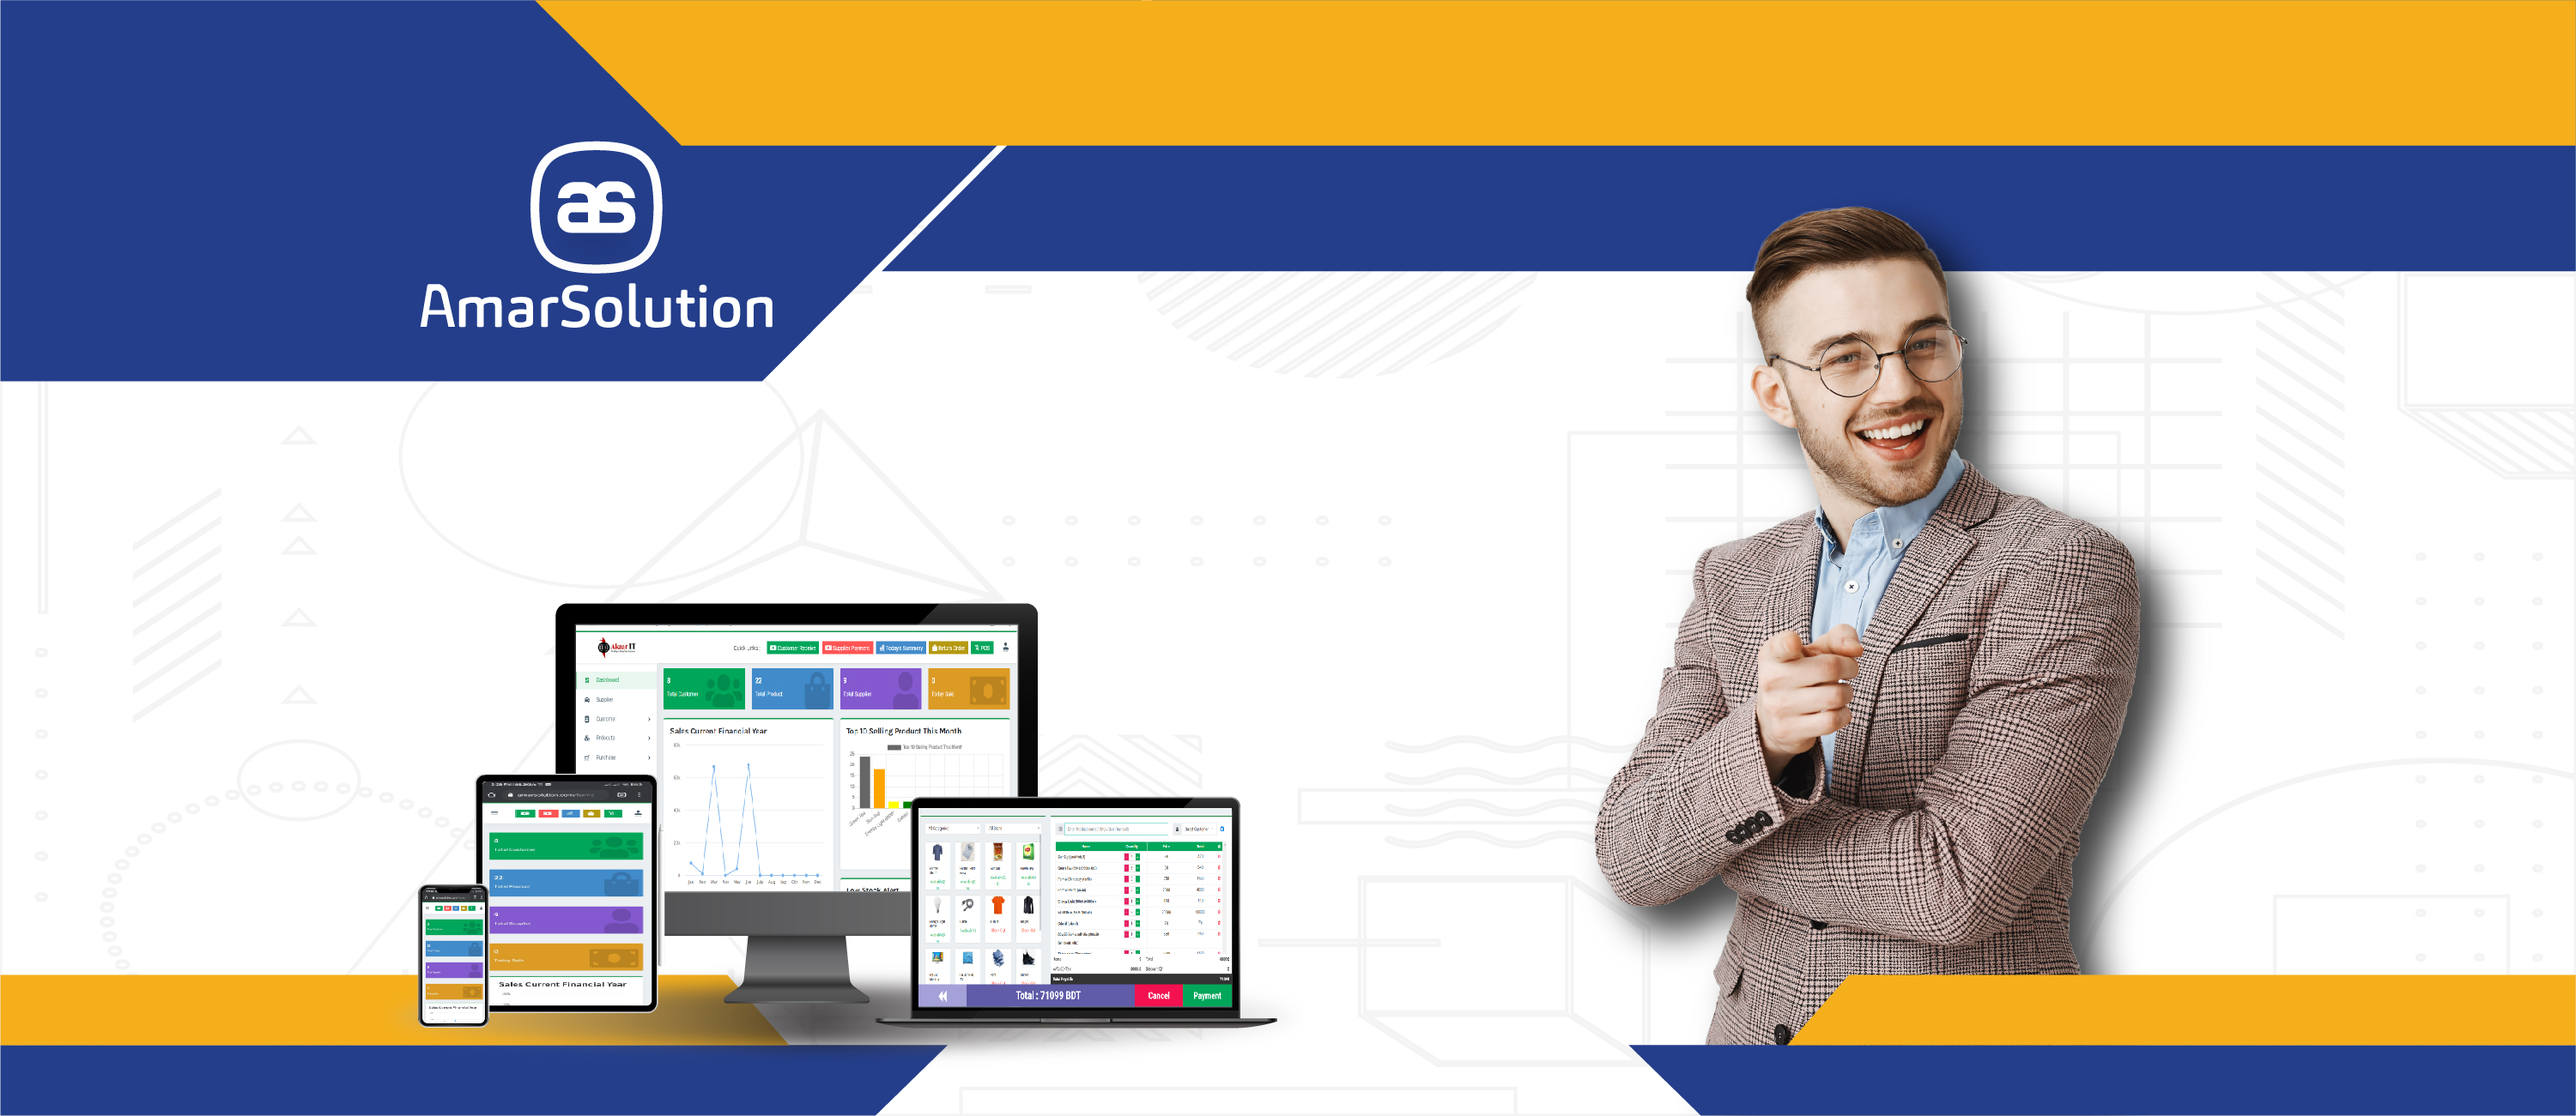
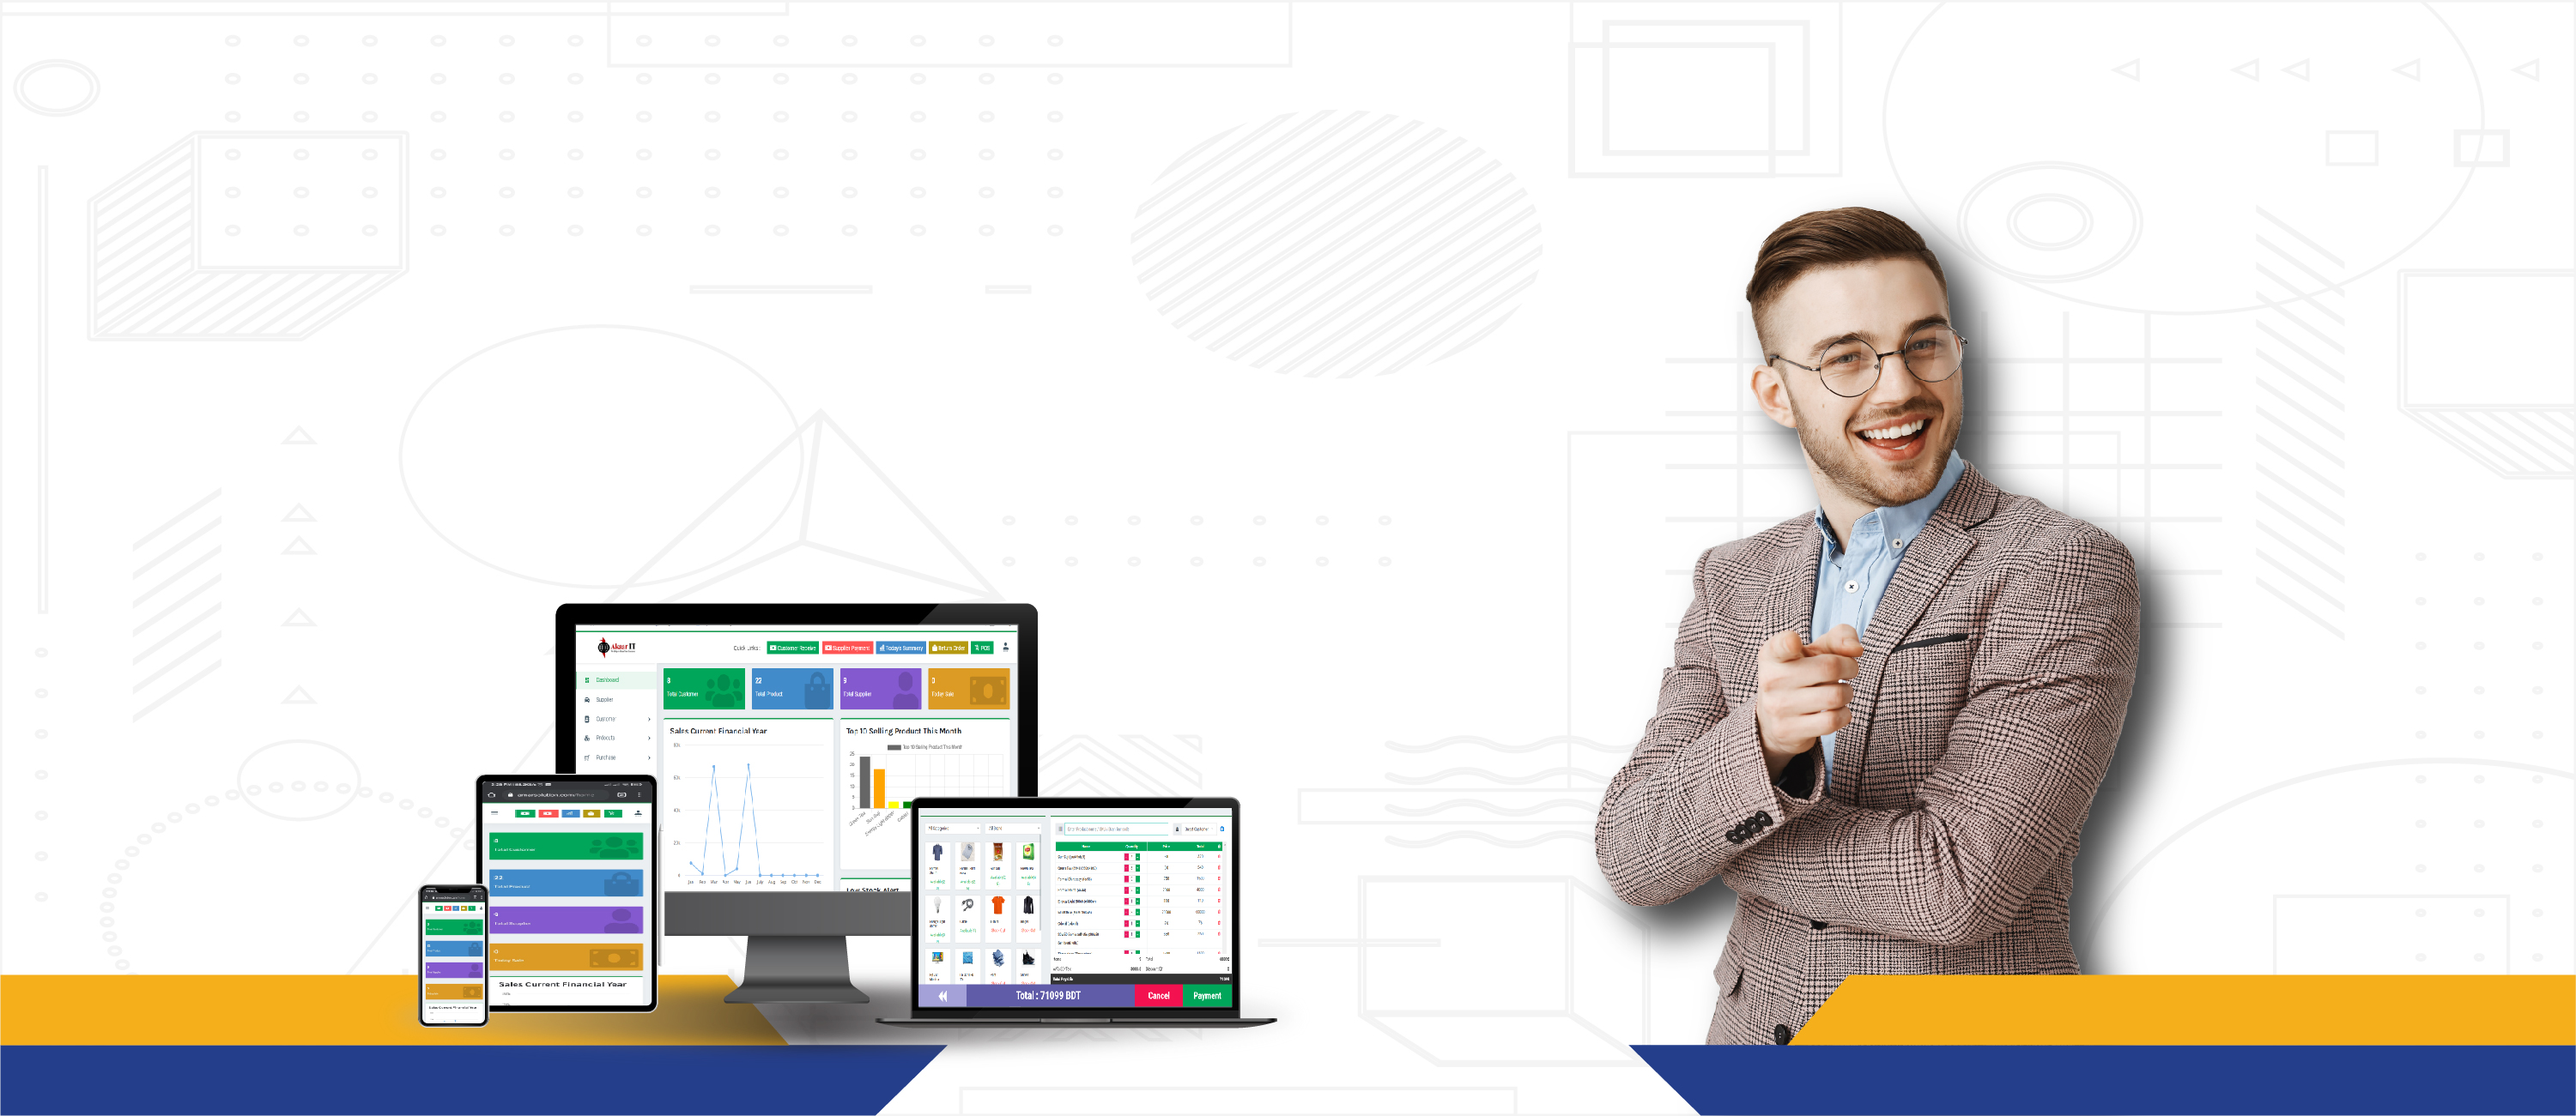
responsive

Changed region(s): [[0.0, 0.0, 1.0, 0.3689]]

diff --git a/css/style.css b/css/style.css
@@ -304,7 +304,7 @@ button {
     position: relative;
     width: 100%;
     height: 100vh;
-    background-image: url("../images/ams-bg-1.jpg");
+    background-image: url("../images/ams-bg.jpg");
     background-position: center;
     background-repeat: no-repeat;
     background-size: cover;

diff --git a/css/responsive.css b/css/responsive.css
@@ -361,6 +361,15 @@
 
 /* Max Width 320px */
 @media only screen and (max-width:320px){
+
+    h1{
+        font-size: 28px;
+    }
+
+    .banner-content h5{
+        font-size: 14px;
+    }
+    
     table{
         display: block;
         overflow-x: auto;
